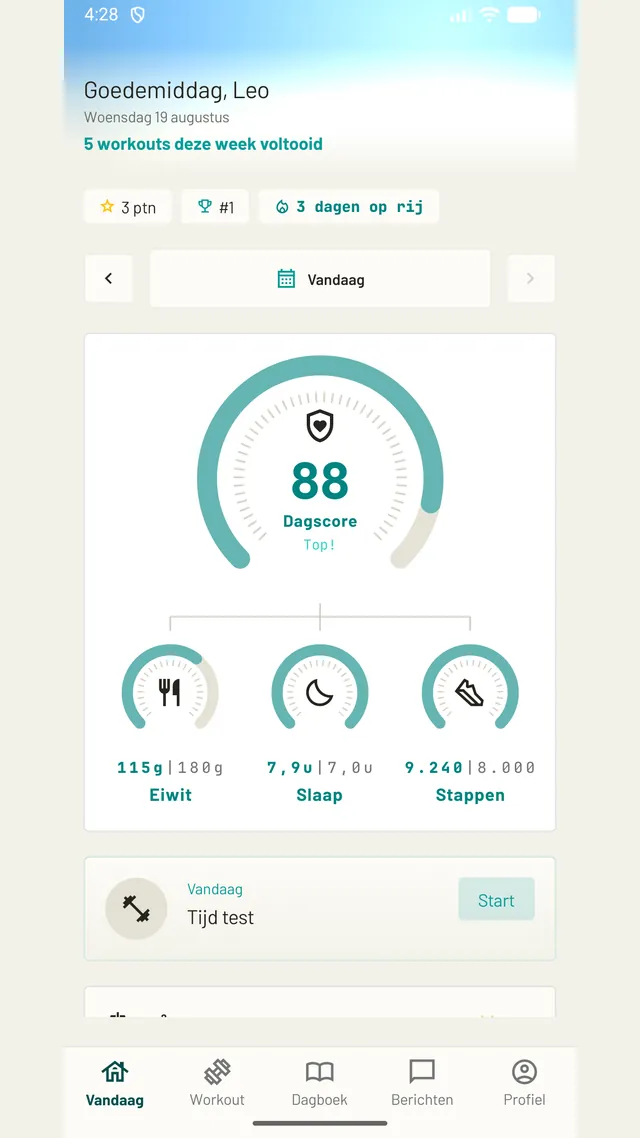
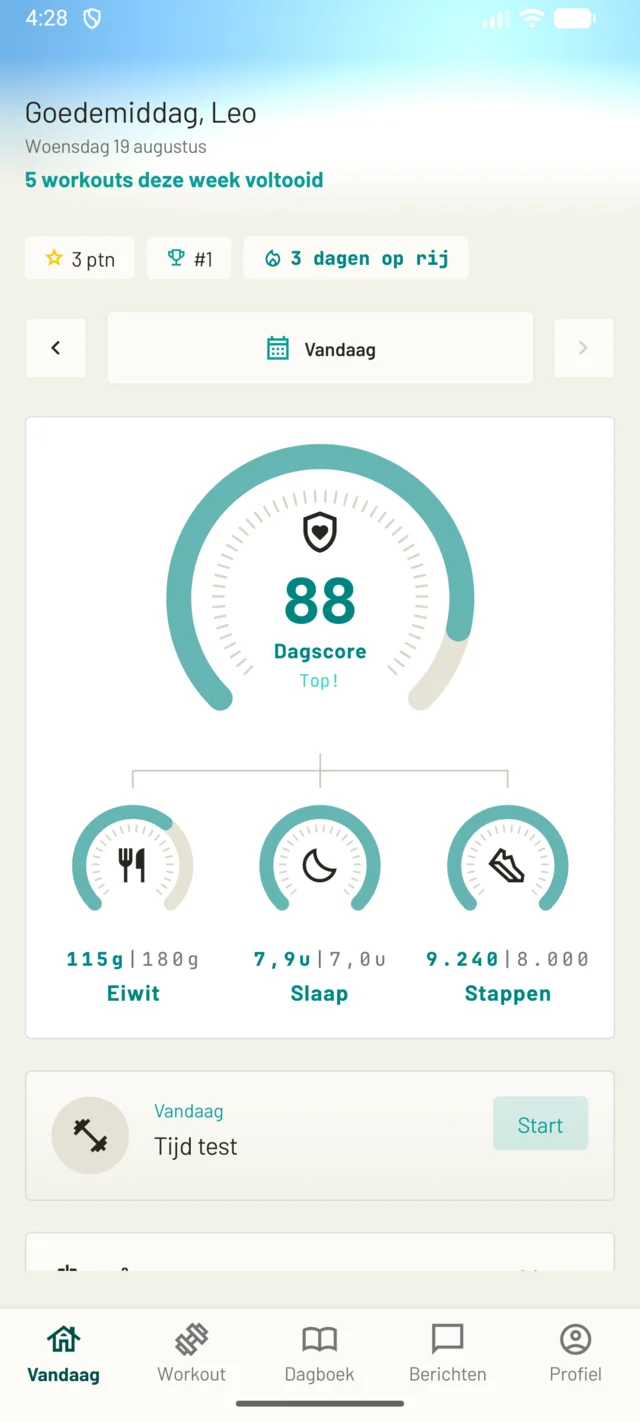
Phones at 9:20 like current devices: raw ATHLIQ screens without the store images' side bars, re-framed wireframes, scan beat and notes re-mapped, 2x screens by density

diff --git a/src/styles/reel.css b/src/styles/reel.css
@@ -130,7 +130,7 @@ html.arriving .curtain { transform: translateY(0); visibility: visible; }
 .orbit__tile { position: absolute; left: 0; top: 0; margin: 0; opacity: var(--o); transform: translate(-50%, -50%) translate3d(var(--x), var(--y), var(--z)) rotateX(10deg); will-change: transform, opacity; }
 .orbit__face { overflow: hidden; border-radius: 12px; background: var(--night); box-shadow: 0 24px 48px -18px rgb(0 0 0 / 0.6); } /* taste-skill-ignore: tiles float in depth, the shadow places them */
 .orbit__face img, .orbit__face video { display: block; width: 100%; height: 100%; object-fit: cover; }
-.orbit__tile--phone .orbit__face, .orbit__tile--video .orbit__face, .orbit__tile--wire .orbit__face { width: clamp(78px, 7.6vw, 136px); aspect-ratio: 320 / 569; border-radius: clamp(10px, 1vw, 16px); }
+.orbit__tile--phone .orbit__face, .orbit__tile--video .orbit__face, .orbit__tile--wire .orbit__face { width: clamp(78px, 7.6vw, 136px); aspect-ratio: 9 / 20; border-radius: clamp(10px, 1vw, 16px); }
 .orbit__tile--site .orbit__face { width: clamp(140px, 14vw, 250px); aspect-ratio: 16 / 10; border-radius: 8px; }
 .orbit__tile--comp .orbit__face { width: clamp(170px, 17vw, 300px); aspect-ratio: 620 / 361; overflow: visible; background: none; box-shadow: none; filter: drop-shadow(0 20px 28px rgb(0 0 0 / 0.45)); } /* taste-skill-ignore: the transparent comp floats in depth like the other tiles */
 .orbit__wire { width: 100%; height: 100%; background: var(--white); color: rgb(0 0 0 / 0.72); }
@@ -216,10 +216,10 @@ html.motion [data-hero-title] { visibility: hidden; animation: reveal-fallback 0
 .chapter__pic { width: 100%; filter: drop-shadow(24px 40px 36px rgb(0 0 0 / 0.28)); } /* taste-skill-ignore: transparent comp tilted in 3D casts a shadow */
 
 /* phones for the reel */
-.phone { --h: min(74svh, 700px); width: calc(var(--h) * 640 / 1138); transform: rotateY(-14deg) rotateX(6deg) rotateZ(-1.5deg); transform-style: preserve-3d; }
+.phone { --h: min(74svh, 700px); width: calc(var(--h) * 0.45); /* a 9:20 screen, like a current phone */ transform: rotateY(-14deg) rotateX(6deg) rotateZ(-1.5deg); transform-style: preserve-3d; }
 .chapter--flip .phone { transform: rotateY(14deg) rotateX(6deg) rotateZ(1.5deg); }
-.phone__body { padding: 3.2%; background: #0a0a0a; border-radius: 13% / 7%; box-shadow: var(--shadow), inset 0 0 0 1px rgb(255 255 255 / 0.08); } /* taste-skill-ignore: the tilted 3D phone needs its cast shadow (direction contract) */
-.phone__screen { position: relative; overflow: hidden; border-radius: 10% / 5.6%; aspect-ratio: 640 / 1138; background: var(--night); }
+.phone__body { padding: 3.2%; background: #0a0a0a; border-radius: 15% / 6.8%; box-shadow: var(--shadow), inset 0 0 0 1px rgb(255 255 255 / 0.08); } /* taste-skill-ignore: the tilted 3D phone needs its cast shadow (direction contract) */
+.phone__screen { position: relative; overflow: hidden; border-radius: 12% / 5.4%; aspect-ratio: 9 / 20; background: var(--night); }
 .phone__shot { position: absolute; inset: 0; width: 100%; height: 100%; object-fit: cover; }
 .phone__screen--wire { background: var(--white); }
 .phone__wire { position: absolute; inset: 0; color: var(--black); }
@@ -296,7 +296,7 @@ html.motion .years__frame { overflow: hidden; }
 .cover__struck s::after { content: ""; position: absolute; left: -3%; right: -3%; top: 52%; height: 0.1em; background: currentColor; transform: scaleX(var(--strike, 1)); transform-origin: left; }
 .cover__mast { position: relative; z-index: 1; display: block; font-size: calc((100vw - 2 * var(--m)) / var(--fit, 6)); line-height: 0.8; text-transform: uppercase; white-space: nowrap; letter-spacing: -0.01em; }
 html.motion [data-mast] { visibility: hidden; animation: reveal-fallback 0s 2.5s forwards; }
-.cover__star { --star-h: min(54svh, 500px); --star-w: calc(var(--star-h) * 640 / 1138); position: absolute; z-index: 2; top: 31%; left: calc(50% - var(--star-w) * 0.15); perspective: 1600px; }
+.cover__star { --star-h: min(54svh, 500px); --star-w: calc(var(--star-h) * 0.45); position: absolute; z-index: 2; top: 31%; left: calc(50% - var(--star-w) * 0.15); perspective: 1600px; }
 .cover__star .device { --h: var(--star-h); }
 .cover__tilt { transform: rotateY(-16deg) rotateX(8deg) rotateZ(-4deg); transform-style: preserve-3d; }
 .cover--metric .cover__star { --star-h: min(44svh, 400px); top: 40%; left: auto; right: calc(var(--m) + 9vw); }
@@ -305,8 +305,8 @@ html.motion [data-mast] { visibility: hidden; animation: reveal-fallback 0s 2.5s
 .cover--comp .cover__tilt { transform: rotateX(16deg); }
 .cover__comp { width: var(--comp-w); filter: drop-shadow(24px 44px 40px rgb(0 0 0 / 0.28)); } /* taste-skill-ignore: transparent comp lifted off the cover */
 .cover__scan { position: absolute; inset: 0; pointer-events: none; }
-.cover__timer { position: absolute; left: 50%; top: 30.8%; translate: -50% -50%; min-width: 3.2em; padding: 0.15em 0.2em; background: var(--white); color: #000; font-family: var(--head); font-size: calc(var(--star-h) * 0.075); line-height: 1; text-align: center; font-variant-numeric: tabular-nums; }
-.cover__tick { position: absolute; left: 85%; top: calc(56.9% + var(--row) * 9.84%); width: 9%; aspect-ratio: 1; translate: -50% -50%; border-radius: 50%; background: #000; }
+.cover__timer { position: absolute; left: 50%; top: 33.4%; translate: -50% -50%; min-width: 3.2em; padding: 0.15em 0.2em; background: var(--white); color: #000; font-family: var(--head); font-size: calc(var(--star-h) * 0.065); line-height: 1; text-align: center; font-variant-numeric: tabular-nums; }
+.cover__tick { position: absolute; left: 87.8%; top: calc(55.97% + var(--row) * 8.51%); width: 9.7%; aspect-ratio: 1; translate: -50% -50%; border-radius: 50%; background: #000; }
 .cover__tick::after { content: ""; position: absolute; left: 30%; top: 24%; width: 24%; height: 40%; border: solid var(--lime); border-width: 0 3px 3px 0; rotate: 45deg; }
 .cover__caption { margin-top: 12px; max-width: 34ch; font-size: var(--small); font-weight: 500; }
 .cover .note span { color: var(--on-field); }
@@ -337,10 +337,10 @@ html.motion [data-mast] { visibility: hidden; animation: reveal-fallback 0s 2.5s
 .cs__all { margin-top: 40px; font-weight: 600; }
 
 /* sketch-to-shipped device (case pages) */
-.device { --h: min(70svh, 640px); width: calc(var(--h) * 640 / 1138); margin: 0; }
+.device { --h: min(70svh, 640px); width: calc(var(--h) * 0.45); margin: 0; }
 .device__body { position: relative; }
-.device__bezel { padding: 3.2%; background: #0a0a0a; border-radius: 13% / 7%; box-shadow: var(--shadow); } /* taste-skill-ignore: phone on a colour panel */
-.device__screen { position: relative; overflow: hidden; border-radius: 10% / 5.6%; background: var(--white); aspect-ratio: 640 / 1138; }
+.device__bezel { padding: 3.2%; background: #0a0a0a; border-radius: 15% / 6.8%; box-shadow: var(--shadow); } /* taste-skill-ignore: phone on a colour panel */
+.device__screen { position: relative; overflow: hidden; border-radius: 12% / 5.4%; background: var(--white); aspect-ratio: 9 / 20; }
 .device__shot { width: 100%; height: 100%; object-fit: cover; }
 .device__wire { position: absolute; inset: 0; background: var(--white); color: rgb(0 0 0 / 0.7); }
 .device__scan { position: absolute; left: 0; right: 0; top: 0; height: 2px; background: var(--black); opacity: 0; pointer-events: none; }

diff --git a/cms/src/collections/Media.ts b/cms/src/collections/Media.ts
@@ -3,7 +3,7 @@ import type { CollectionConfig } from 'payload'
 import { privateAccess } from '../access'
 
 // Every image and video on the site. Sizes are made on upload: `web` for most uses, `phone` and `phone2x`
-// for app screens inside the phone frames. Videos are used as they are: keep them short, muted and small.
+// for app screens inside the phone frames (upload raw screen captures, 9:20, e.g. 1080 x 2400, not store images). Videos are used as they are: keep them short, muted and small.
 export const Media: CollectionConfig = {
   slug: 'media',
   labels: { singular: 'File', plural: 'Images and videos' },
@@ -21,7 +21,7 @@ export const Media: CollectionConfig = {
     imageSizes: [
       { name: 'web', width: 2400, withoutEnlargement: true, formatOptions: { format: 'webp', options: { quality: 86 } } },
       { name: 'phone', width: 640, withoutEnlargement: true, formatOptions: { format: 'webp', options: { quality: 86 } } },
-      { name: 'phone2x', width: 1280, withoutEnlargement: true, formatOptions: { format: 'webp', options: { quality: 86 } } },
+      { name: 'phone2x', width: 1080, withoutEnlargement: true, formatOptions: { format: 'webp', options: { quality: 86 } } },
     ],
   },
 }

diff --git a/src/data/work.ts b/src/data/work.ts
@@ -121,8 +121,8 @@ export const cases: Case[] = [
 				kind: 'device', wire: 'athliq-today', img: '/img/athliq-today.webp', alt: 'ATHLIQ home screen with a day score of 88 built from protein, sleep and steps',
 				notes: [
 					{ text: 'One score for the day', x: 50, y: 41, side: 'r' },
-					{ text: 'Protein, sleep, steps', x: 70, y: 62, side: 'r' },
-					{ text: 'Today’s workout, one tap', x: 85, y: 80, side: 'r' },
+					{ text: 'Protein, sleep, steps', x: 75, y: 62, side: 'r' },
+					{ text: 'Today’s workout, one tap', x: 94, y: 80, side: 'r' },
 				],
 			},
 		},
